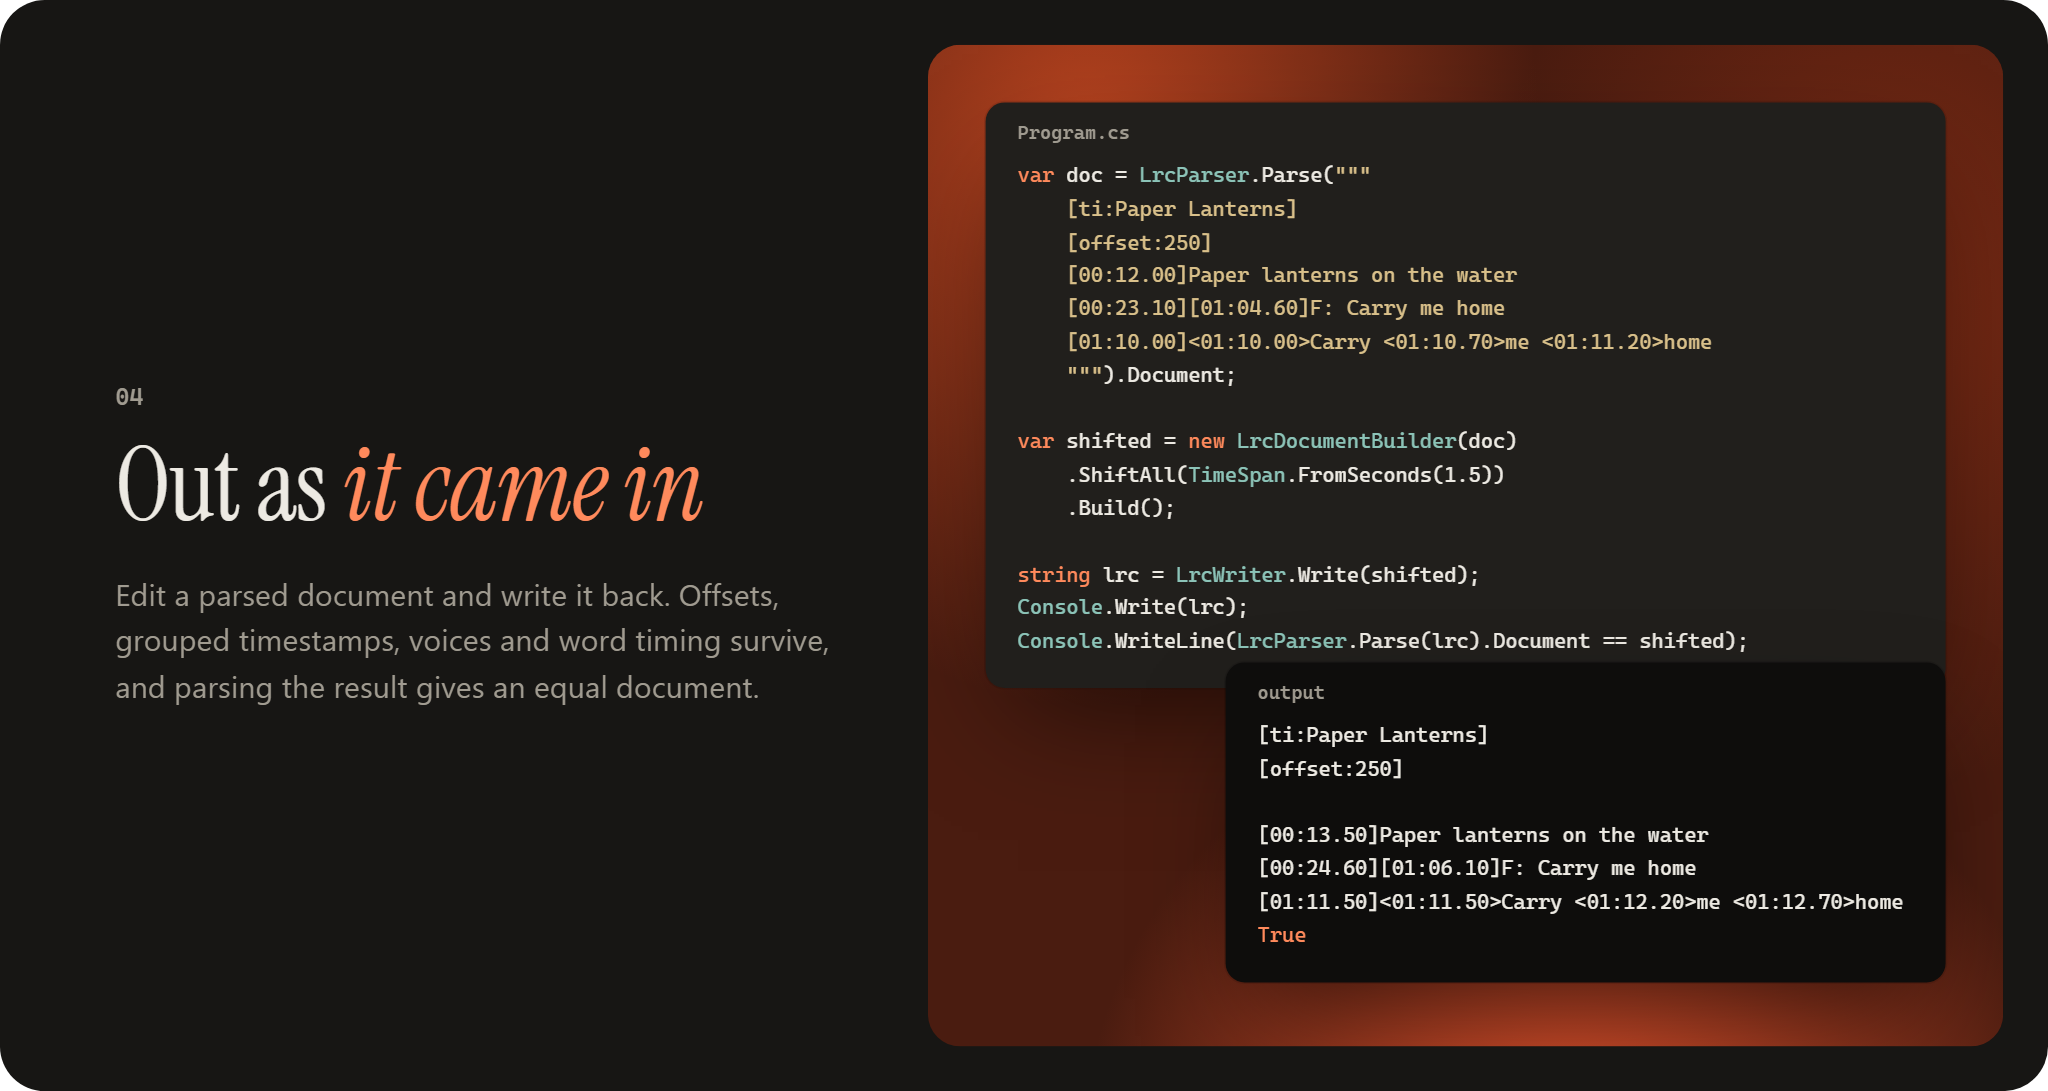
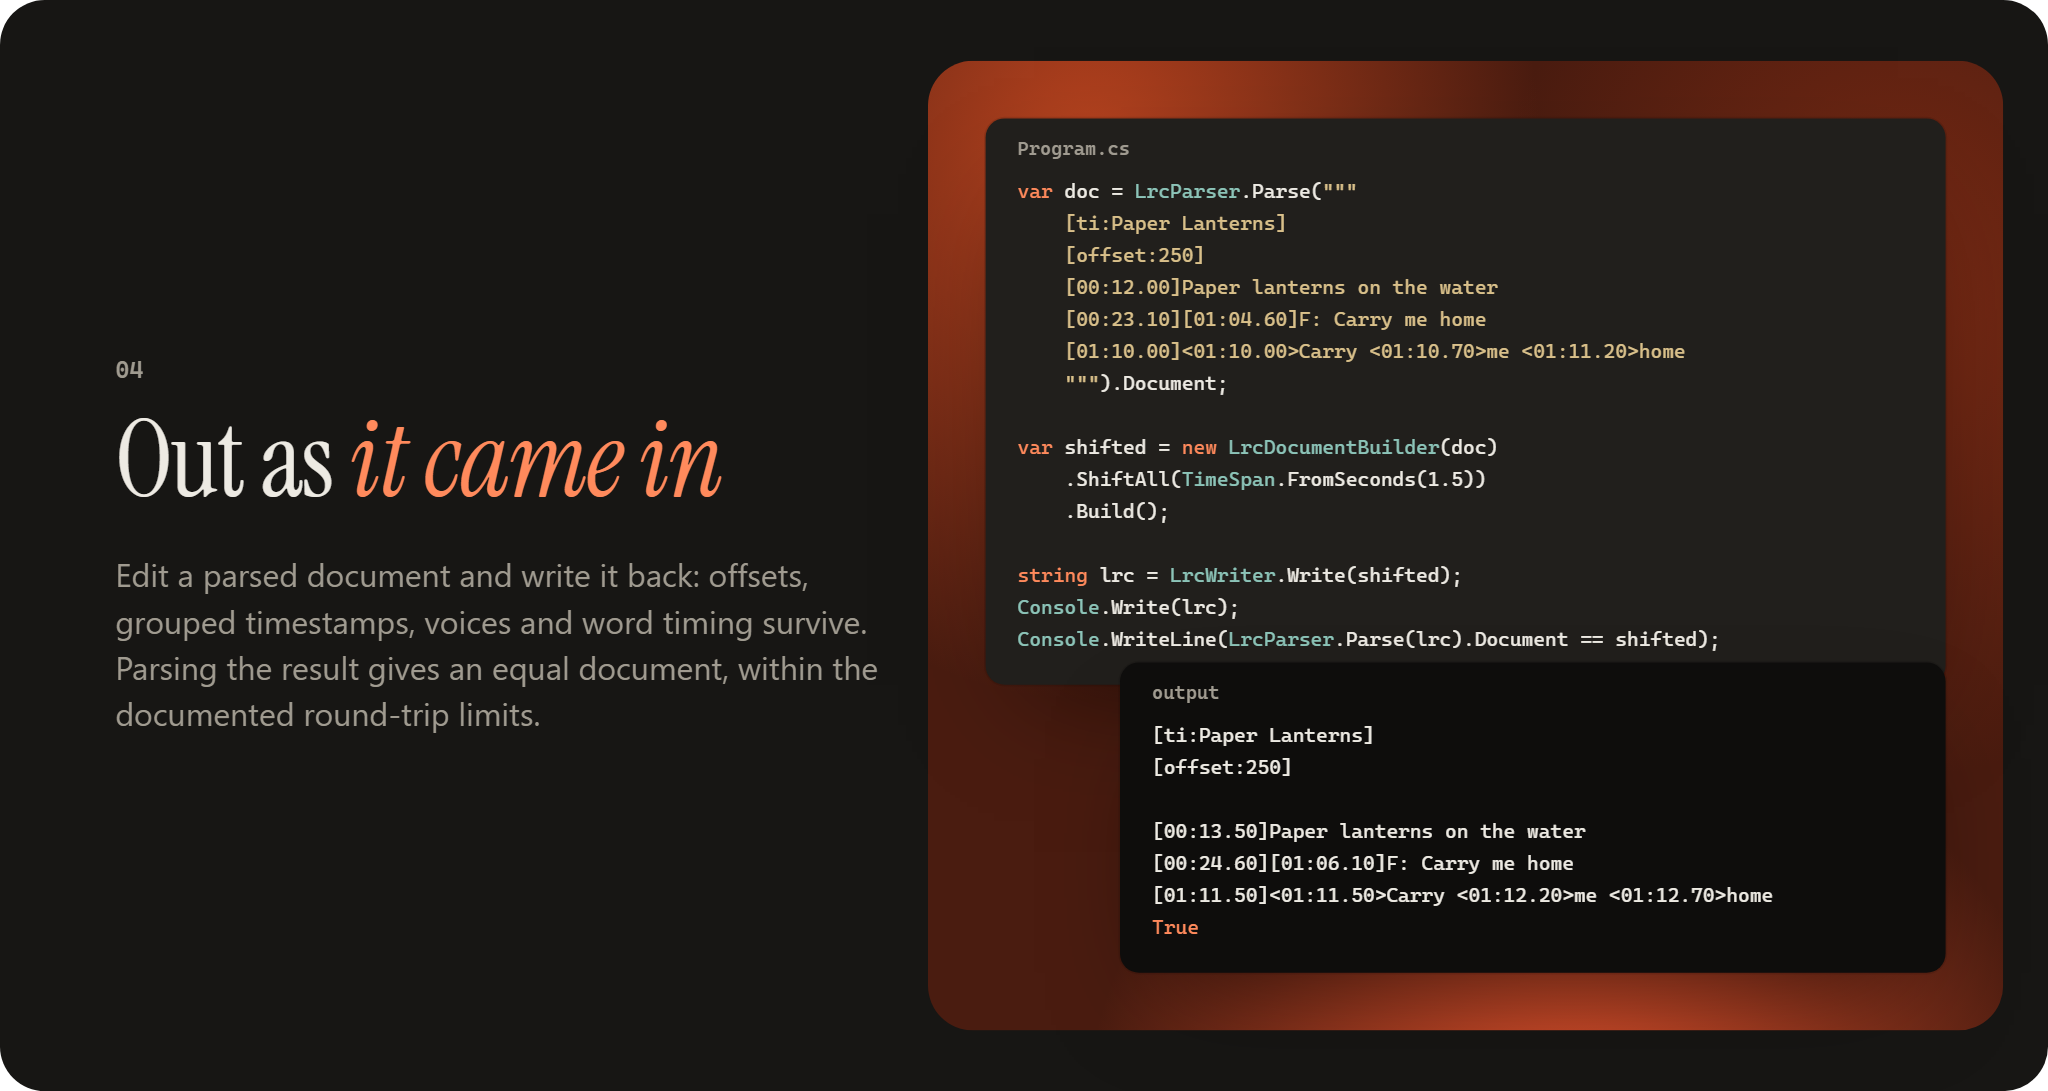
docs: declare the 3.0.0 behaviour changes and the round-trip limits
The equality change was listed only as a fix, and the site, README panel and package README claimed an unconditional round trip.

diff --git a/site/index.html b/site/index.html
@@ -137,7 +137,7 @@
       <div class="copy">
         <p class="num">04</p>
         <h2>Out as <i>it came in</i></h2>
-        <p>Edit a parsed document and write it back. Offsets, grouped timestamps, voices and word timing survive, and parsing the result gives an equal document.</p>
+        <p>Edit a parsed document and write it back: offsets, grouped timestamps, voices and word timing survive. Parsing the result gives an equal document, within the documented round-trip limits.</p>
         <p><a href="articles/getting-started.html#round-trips">Round trips</a></p>
       </div>
       <div class="stage">

diff --git a/docs/articles/getting-started.md b/docs/articles/getting-started.md
@@ -136,9 +136,9 @@ started.
 
 ## Round trips
 
-Writing a document and parsing the output gives an equal document, whether it was
-parsed, built with `LrcDocumentBuilder` or edited with `with`, apart from the cases
-listed below. Voice markers, multi-timestamp lines, word timing, metadata (including
+Writing a document with the default options and parsing the output gives an equal
+document, whether it was parsed, built with `LrcDocumentBuilder` or edited with
+`with`, apart from the cases listed below. Voice markers, multi-timestamp lines, word timing, metadata (including
 duplicate and unknown tags) and the original `[offset:N]` tag are kept.
 
 ```csharp
@@ -151,13 +151,20 @@ The file isn't reproduced byte for byte: timestamps are written in the standard 
 and untimed text is dropped. Beyond that:
 
 - Timestamps are written as `mm:ss.xx` by default, so `[00:01.505]` comes back as
-  `[00:01.50]`. Set `TimestampPrecision = LrcTimestampPrecision.Milliseconds` to keep
-  milliseconds.
+  `[00:01.50]`, and so does a line shifted by a few milliseconds. Set
+  `TimestampPrecision = LrcTimestampPrecision.Milliseconds` to keep milliseconds.
+- `MetadataOrdering = LrcMetadataOrdering.Alphabetical` writes the tags in a different
+  order, so the result has the same values but isn't equal.
 - Two documents are equal when their lines and typed metadata match and they would be
   written with the same tags. `Metadata.RawTags` itself can differ: a parsed document
   lists every tag it read, a built one only those passed to `WithRawTag`, and raw
   tags left stale by an edit to a typed property are ignored.
-- `Length` is written as `mm:ss`, so fractions of a second are lost.
+- `Length` is written as `mm:ss` and `Offset` in whole milliseconds; anything finer
+  is lost.
+- A metadata value can't contain `]` or a line break, and a tag key can't start with
+  a digit or contain `:`, `[`, `]` or a line break. `LrcDocumentBuilder` throws
+  `ArgumentException` for these; a record built directly or with `with` isn't
+  checked, and such a tag doesn't parse back.
 - In documents you build or edit, lyric text that looks like LRC syntax (such as
   `<00:01.00>` or a leading `F: `) is read as syntax when parsed again.
 - A line can't go back to the default voice after an `M:`/`F:`/`D:` line; see

diff --git a/README.md b/README.md
@@ -61,12 +61,12 @@ Walaoke `M:`, `F:` and `D:` markers apply to their line and every line after it 
 
 <picture>
   <source media="(prefers-color-scheme: dark)" srcset=".github/readme/feature-roundtrip-dark.png">
-  <img src=".github/readme/feature-roundtrip-light.png" alt="04. Out as it came in. A parsed document is shifted by 1.5 seconds and written back with its offset tag, grouped timestamps, voice marker and word timing; parsing the output gives an equal document.">
+  <img src=".github/readme/feature-roundtrip-light.png" alt="04. Out as it came in. A parsed document is shifted by 1.5 seconds and written back with its offset tag, grouped timestamps, voice marker and word timing; parsing the output gives an equal document, within the documented round-trip limits.">
 </picture>
 
 Documents are immutable records. Edit one with `LrcDocumentBuilder` or a `with` expression, then write it to a string, `TextWriter`, `Stream`, `IBufferWriter<char>` or `IBufferWriter<byte>`, a fixed span (`TryWrite`), or a file (written atomically).
 
-Writing a parsed document and parsing it again gives an equal document, keeping the original `[offset:N]` tag. Timestamps are written as `mm:ss.xx` by default, so millisecond timestamps need `TimestampPrecision = LrcTimestampPrecision.Milliseconds` to survive. `LrcWriter.ValidateForWrite` reports anything that can't be written back.
+Writing a document with the default options and parsing it again gives an equal document, keeping the original `[offset:N]` tag. Timestamps are written as `mm:ss.xx` by default, so millisecond timestamps need `TimestampPrecision = LrcTimestampPrecision.Milliseconds` to survive; [Round trips](https://anthonyy232.github.io/ModernLrcParser/articles/getting-started.html#round-trips) lists the other limits. `LrcWriter.ValidateForWrite` reports voice changes that can't be written back.
 
 ## Install
 

diff --git a/CHANGELOG.md b/CHANGELOG.md
@@ -6,16 +6,30 @@ All notable changes to **ModernLrc** are documented in this file. Format follows
 
 ## [Unreleased]
 
-### Fixed
-
-- A document built with `LrcDocumentBuilder`, or edited with `with`, is now equal to the
-  result of writing and parsing it. `LrcMetadata` equality compares the typed properties
-  and the tags that would be written, so raw tags made stale by an edit no longer count.
-
-### Changed
+### Changed (breaking)
 
 - ModernLrc is now licensed under GPL-3.0-only. Versions up to 2.0.2 remain under the MIT
   License.
+- `LrcMetadata` equality and hashing ignore raw tags made stale by an edit to a typed
+  property: two instances are equal when their typed properties match and they would be
+  written with the same tags. Code that compared metadata to detect a change in
+  `RawTags`, or used it as a dictionary key, can see instances as equal that used to differ.
+- `LrcMetadataOrdering.Alphabetical` now writes every tag in one sequence sorted by key.
+  Typed values with no raw tag used to be written first, in property-name order (`ti`
+  before `re`), so the output wasn't sorted.
+- `LrcDocumentBuilder` throws `ArgumentException` for metadata that can't be read back:
+  a value containing `]` or a line break, a raw-tag key that starts with a digit or
+  contains `:`, `[`, `]` or a line break, and a negative `Length`.
+- `LrcDocumentBuilder.WithRawTag` lower-cases the key, as the parser does, and
+  `RemoveRawTag` matches it case-insensitively.
+
+### Fixed
+
+- A document built with `LrcDocumentBuilder`, or edited with `with`, is now equal to the
+  result of writing it with the default options and parsing it.
+
+### Changed
+
 - The NuGet package has an icon and its own short README.
 
 ## [2.0.2] — 2026-11-07

diff --git a/src/ModernLrc/README.md b/src/ModernLrc/README.md
@@ -6,7 +6,7 @@ A fast LRC (lyrics) parser and writer for .NET 10. Native AOT compatible, trim-s
 - Malformed input produces diagnostics with stable codes and line/column positions instead of exceptions.
 - Reads strings, spans, `TextReader`, bytes, streams and files, sync and async, with encoding detection.
 - `FindLineAt` and `LinesInRange` look up lines by playback position, applying `[offset:N]`.
-- Writing a parsed document and parsing it again gives an equal document.
+- Writing a document and parsing it again gives an equal document, within the [round-trip limits](https://anthonyy232.github.io/ModernLrcParser/articles/getting-started.html#round-trips) (timestamps are written as `mm:ss.xx` by default).
 
 ```csharp
 using ModernLrc;
